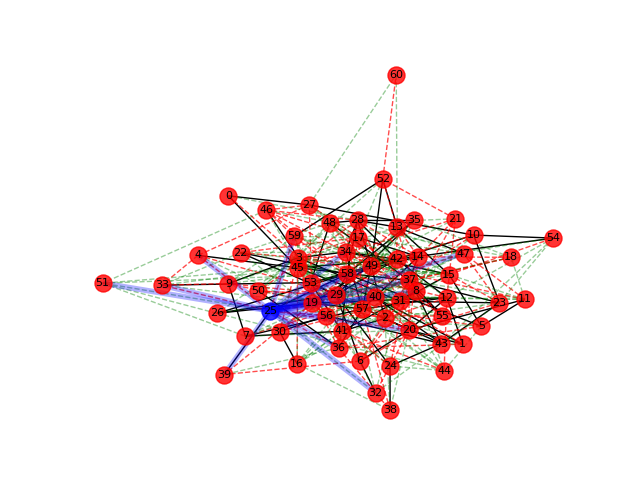
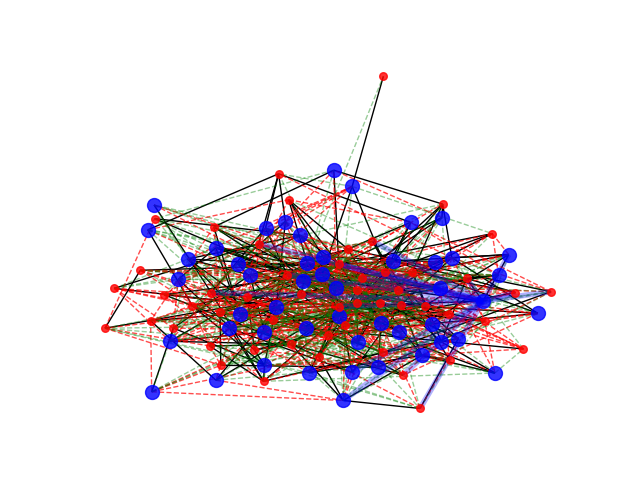
meme update

Changed region(s): [[0.125, 0.125, 0.875, 0.875]]

diff --git a/Code/manager.py b/Code/manager.py
@@ -3,9 +3,11 @@ import networkx as nx
 import matplotlib.pyplot as plt
 import numpy as np
 import gestion_meme as meme
+import matplotlib.animation as animation
 
 #INSERTION PARAMETRES INITIALES
-grandeur_network = 60
+grandeur_network = 100
+numero_generations = 100
 
 #FONCTIONS APPELLES
 NETWORK = bn.generation_reseau(grandeur_network)
@@ -14,8 +16,11 @@ bn.edges_newnetwork(NETWORK)
 
 
 #INTRODUCTION MEME
-zero = meme.init_meme(NETWORK)
+zero = meme.init_meme(NETWORK) #premier node avec le meme
 
+
+for i in range(numero_generations):
+    meme.propagation_meme_gen(NETWORK)
 
 
 #DESSIN GRAPHE
@@ -24,24 +29,24 @@ elarge=[(u,v) for (u,v,d) in NETWORK.edges(data=True) if d['weight'] >=0.7]
 emedium=[(u,v) for (u,v,d) in NETWORK.edges(data=True) if d['weight'] >0.3 and d['weight']<0.7]
 esmall=[(u,v) for (u,v,d) in NETWORK.edges(data=True) if d['weight'] <=0.3]
 
-ememe= NETWORK.edges(zero)
+ememe= NETWORK.edges(zero) #edges initialies liée au zero de la diffusion du meme
 
 pos=nx.spring_layout(NETWORK) # positions for all nodes
 
 # nodes
-ouimeme=[a for a in NETWORK.nodes if NETWORK.nodes[a]['meme']==1]
-nonmeme=[a for a in NETWORK.nodes if NETWORK.nodes[a]['meme']==0]
+ouimeme=[a for a in NETWORK.nodes if NETWORK.nodes[a]['meme']==1] #marque ceux qui ont les memes
+nonmeme=[a for a in NETWORK.nodes if NETWORK.nodes[a]['meme']==0] #marque ceux qui n'ont pas le meme
 
 nx.draw_networkx_nodes(NETWORK,pos,
                        nodelist=ouimeme,
                        node_color='b',
-                       node_size=150,
+                       node_size=100,
                    alpha=0.8)
 
 nx.draw_networkx_nodes(NETWORK,pos,
                        nodelist=nonmeme,
                        node_color='r',
-                       node_size=150,
+                       node_size=30,
                    alpha=0.8)
 
 
@@ -56,7 +61,7 @@ nx.draw_networkx_edges(NETWORK,pos,edgelist=ememe,
                     width=4,alpha=0.3,edge_color='b')
 
 # labels
-nx.draw_networkx_labels(NETWORK,pos,font_size=8,font_family='sans-serif')
+    #nx.draw_networkx_labels(NETWORK,pos,font_size=8,font_family='sans-serif')
 
 plt.axis('off')
 plt.savefig("weighted_graph.png") # save as png

diff --git a/Code/gestion_meme.py b/Code/gestion_meme.py
@@ -4,9 +4,35 @@ import numpy as np
 import copy
 
 def init_meme(network_name):
+    '''NETWORK -> Void
+    Il insert un mémé appelé meme comme attribute à un node random et retourne le node 'victime'
+    '''
     gens= len(network_name.nodes.data())
     x = np.random.randint(1,gens)
     nx.set_node_attributes(network_name, 0, 'meme')
     network_name.nodes[x]['meme'] = 1
     lm = network_name.edges(x)
     return(x)
+
+def propagation_meme_gen(network_name):
+    '''NETWORK -> Void
+    propague le meme d'une generation selon le "weight" des edges
+    '''
+    pres_mem= nx.get_node_attributes(network_name, 'meme')
+    i=0
+    L_prev=[]
+    while i< nx.number_of_nodes(network_name):
+        if pres_mem[i]==1:
+            L_prev.append(i)
+            for (a,b) in network_name.edges(i):
+                x = np.random.randint(0,100,size=3)/100
+                t=100
+                for j in x:
+                    if j < t:
+                        t=j
+                if t >= network_name.get_edge_data(a,b)['weight']:
+                    network_name.nodes[b]['meme'] = 1
+        i+=1
+    for i in L_prev:
+        network_name.nodes[i]['meme'] = 0
+    return()

diff --git a/Code/basic_network.py b/Code/basic_network.py
@@ -51,7 +51,7 @@ def edges_newnetwork(network_name):
         x = probabilite_numero_amis(network_name) - numero_amis(network_name,i)
         if x>0:
             for _ in range(x):
-                k= np.random.randint(10)/10
+                k= np.random.randint(100)/100
                 network_name.add_edge(i,np.random.randint(gens), weight=k)
     return()
 
